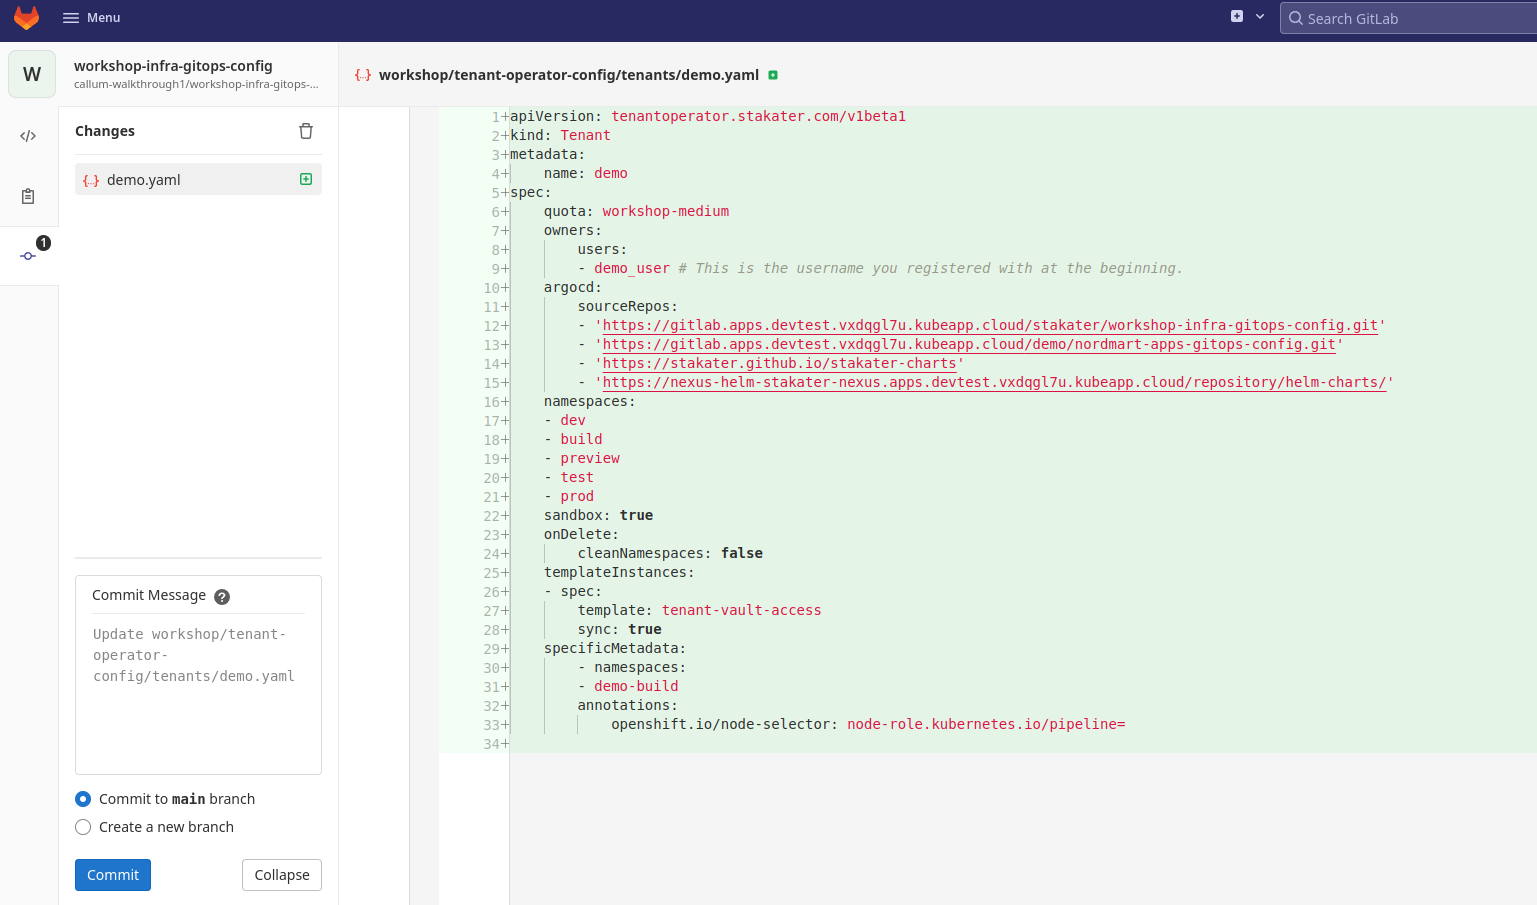
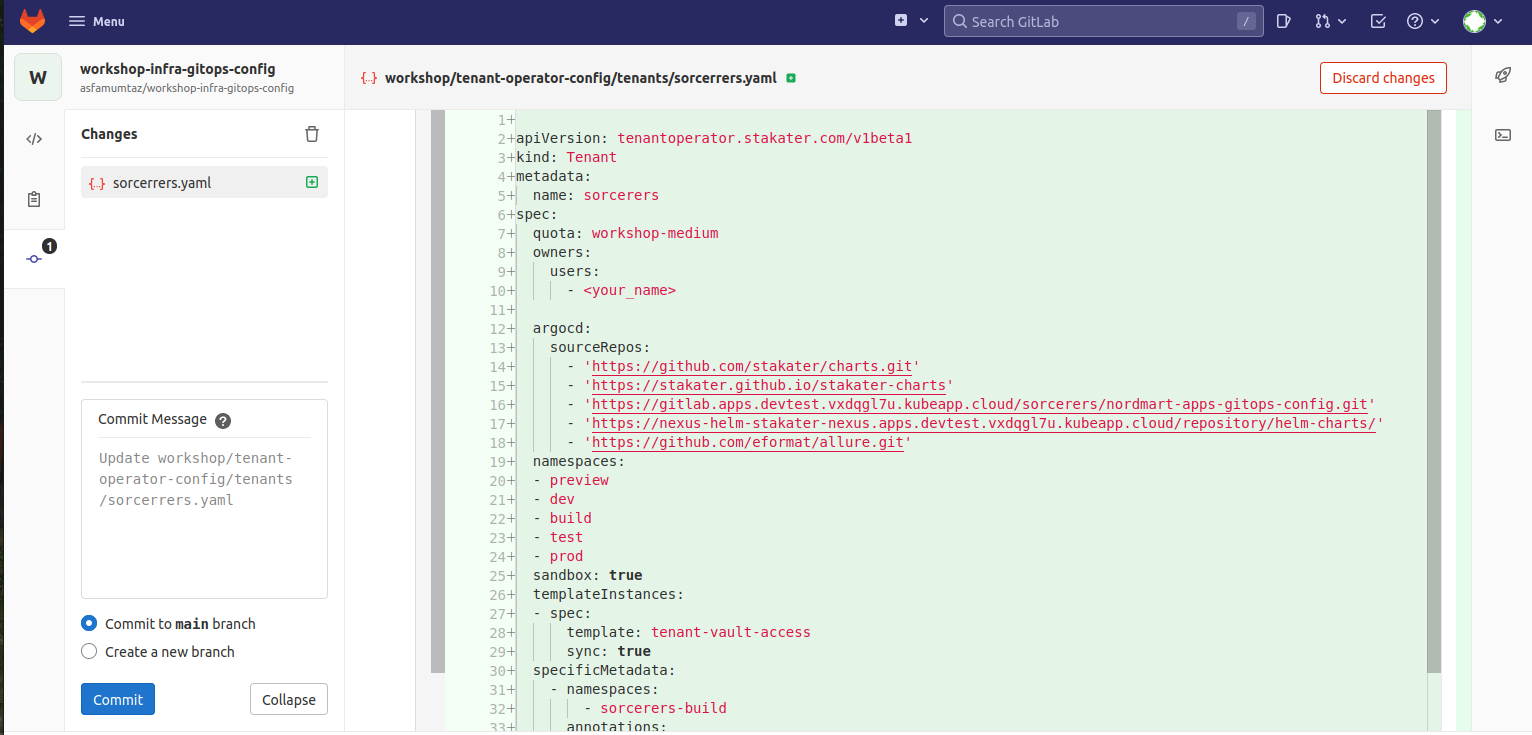
quick fix

diff --git a/docs/1-the-manual-menace/12-tenant-operator-101.md b/docs/1-the-manual-menace/12-tenant-operator-101.md
@@ -68,9 +68,15 @@ We will now collaborate on [workshop-infra-gitops-config](https://gitlab.apps.de
    Click `Invite members` and add your colleagues usernames or emails that they logged into GitLab with.
 
 
-4. Next from the [workshop-infra-gitops-config](https://gitlab.apps.devtest.vxdqgl7u.kubeapp.cloud/stakater/workshop-infra-gitops-config) repository, click on the `Edit fork in Web IDE` button.
+4. Next from the [workshop-infra-gitops-config](https://gitlab.apps.devtest.vxdqgl7u.kubeapp.cloud/stakater/workshop-infra-gitops-config) repository, click on the `Web IDE` button.
 
-   ![edit-fork-in-web-ide](./images/edit-fork-in-web-ide.png)
+   ![WEB-IDE](./images/WEB-IDE.png)
+
+Gitlab will prompt you and ask you if you want to fork the repo. Click `Fork Project`.
+
+  ![Fork-project](./images/Fork-project.png)
+
+Gitlab will now take you to your forked repository.
 
 5. Click the vertical 3 dot menu next to `workshop` in the left hand navigation and select `New File`
 
@@ -97,10 +103,11 @@ We will now collaborate on [workshop-infra-gitops-config](https://gitlab.apps.de
             - <INSERT_YOUR_USER_NAME> # This is the username you registered with at the beginning.
       argocd:
          sourceRepos:
-            - 'https://gitlab.apps.devtest.vxdqgl7u.kubeapp.cloud/stakater/workshop-infra-gitops-config.git'
-            - 'https://gitlab.apps.devtest.vxdqgl7u.kubeapp.cloud/<TENANT_NAME>/nordmart-apps-gitops-config.git'
+            - 'https://github.com/stakater/charts.git'
             - 'https://stakater.github.io/stakater-charts'
+            - 'https://gitlab.apps.devtest.vxdqgl7u.kubeapp.cloud/stakater/workshop-infra-gitops-config.git'
             - 'https://nexus-helm-stakater-nexus.apps.devtest.vxdqgl7u.kubeapp.cloud/repository/helm-charts/'
+            - 'https://gitlab.apps.devtest.vxdqgl7u.kubeapp.cloud/<TENANT_NAME>/nordmart-apps-gitops-config.git'
       namespaces:
       - dev
       - build

diff --git a/docs/3-revenge-of-the-automated-testing/2b-tekton.md b/docs/3-revenge-of-the-automated-testing/2b-tekton.md
@@ -23,7 +23,7 @@
       destination:
         namespace: <TENANT_NAME>-dev
         server: 'https://kubernetes.default.svc'
-      project: sorcerers 
+      project: <TENANT_NAME> 
       source:
         path: stakater/allure
         repoURL: 'https://github.com/stakater/charts.git'
